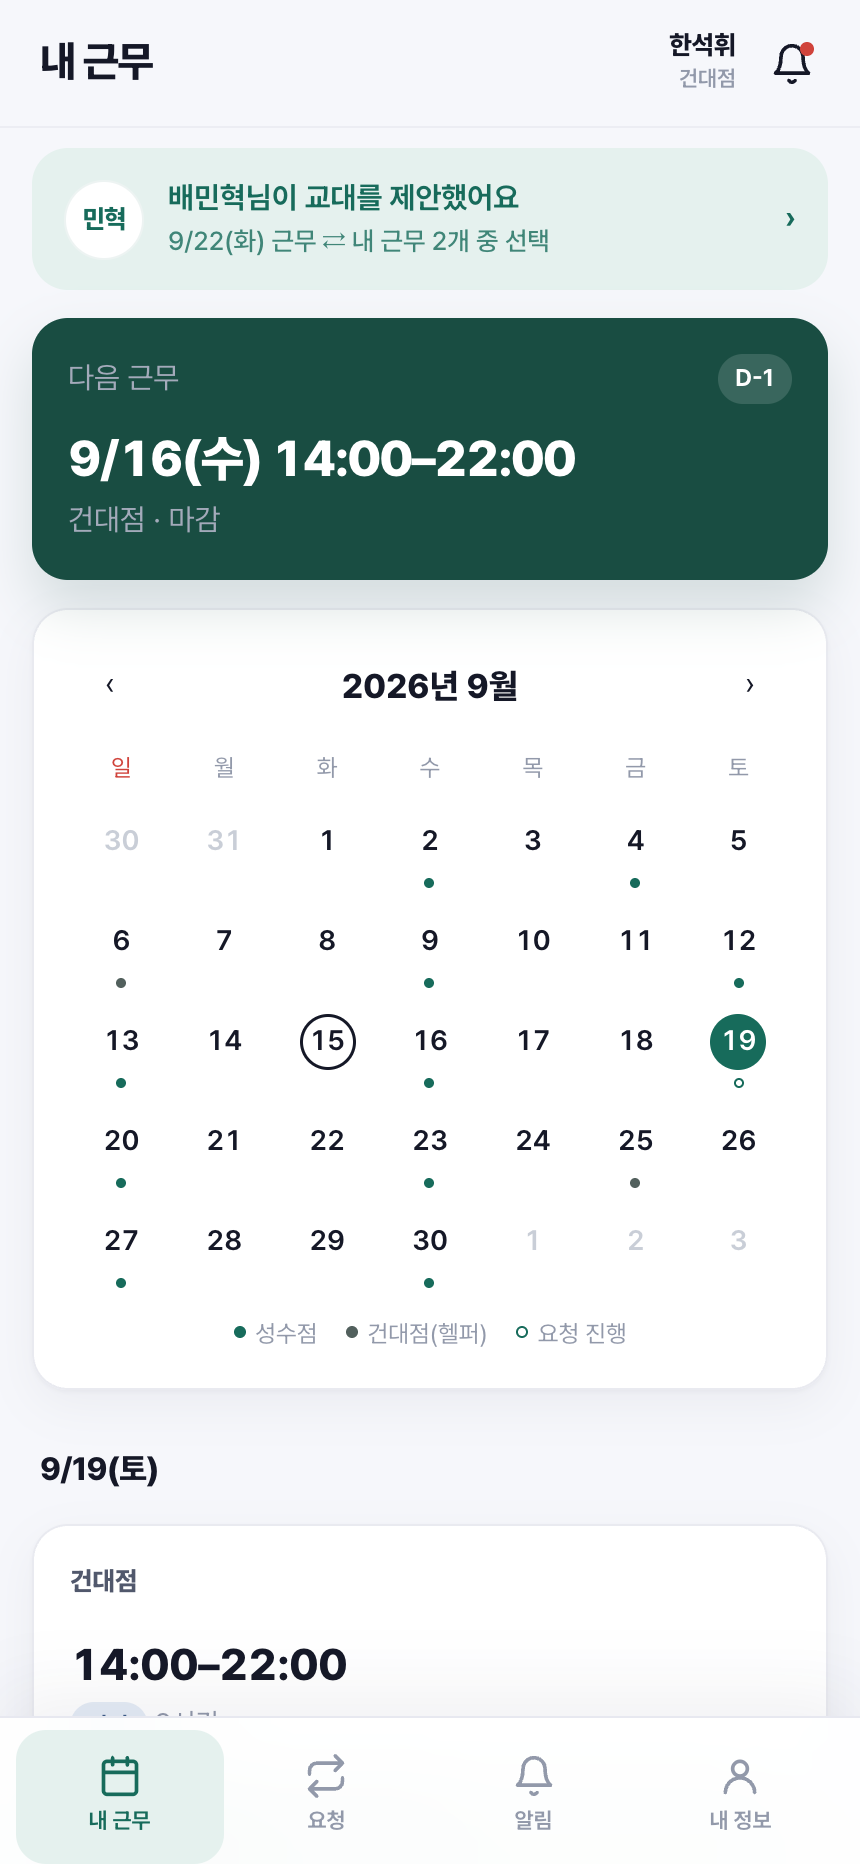
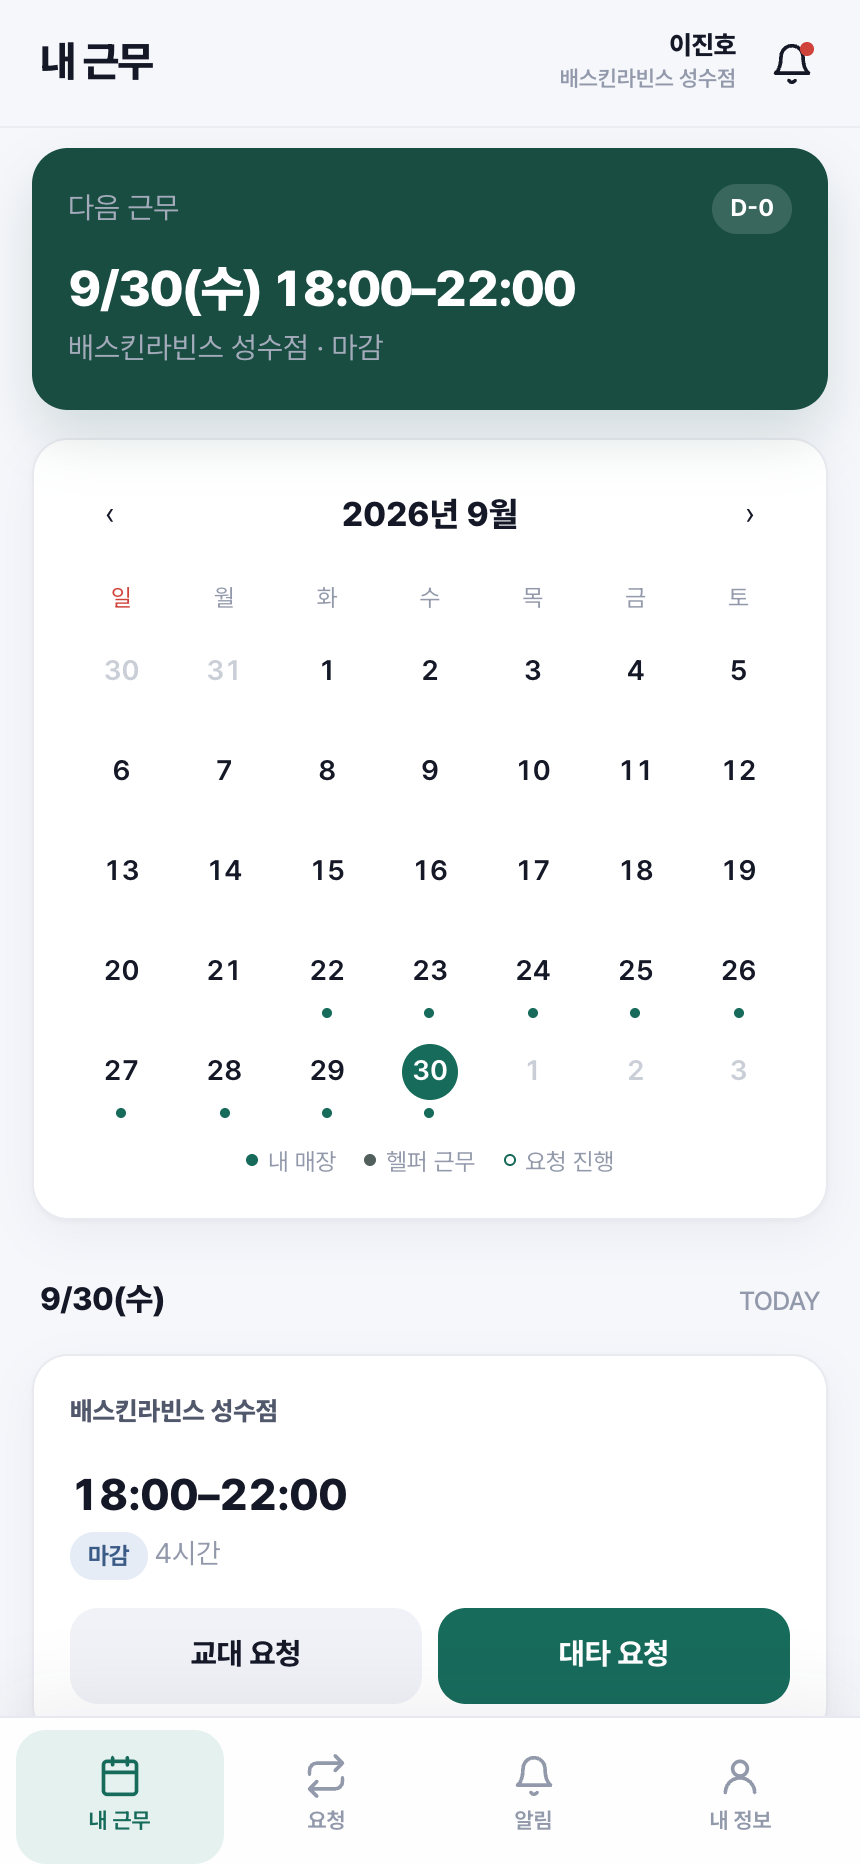
fix: improve live demo startup

diff --git a/web/login.html b/web/login.html
@@ -35,6 +35,7 @@
         </div>
         <p class="error-text" id="loginError" hidden></p>
         <p class="help" id="coldStartHint" hidden>무료 데모 서버를 깨우는 중이에요. 첫 로그인은 1분 이상 걸릴 수 있어요.</p>
+        <p class="help" id="serverStatus" role="status">데모 서버 상태를 확인하는 중이에요…</p>
         <button class="btn btn-primary btn-block" type="submit">로그인</button>
         <span class="api-tag">POST /auth/login</span>
       </form>
@@ -87,6 +88,20 @@
       element.textContent = message;
       element.hidden = false;
     };
+
+    const serverStatus = document.getElementById("serverStatus");
+    if (DaetaguhamApi.baseUrl.includes("onrender.com")) {
+      DaetaguhamApi.warmUp()
+        .then(() => {
+          serverStatus.textContent = "데모 서버 준비 완료";
+          serverStatus.style.color = "var(--accent)";
+        })
+        .catch(() => {
+          serverStatus.textContent = "로그인하면 서버 연결을 다시 시도할게요.";
+        });
+    } else {
+      serverStatus.hidden = true;
+    }
 
     const setBusy = (button, busy, busyLabel) => {
       if (!button.dataset.label) button.dataset.label = button.textContent;

diff --git a/web/js/common.js b/web/js/common.js
@@ -49,7 +49,7 @@
   const DEPLOYED_API_BASE = "https://daetaguham-api-oojoyhh.onrender.com/api";
   const AUTH_KEY = "daetaguham-auth-v1";
   // Render 무료 인스턴스는 첫 요청 시 1분 이상 기동할 수 있어요.
-  const AUTH_COLD_START_TIMEOUT = 90000;
+  const AUTH_COLD_START_TIMEOUT = 180000;
 
   class ApiError extends Error {
     constructor(message, options = {}) {
@@ -173,6 +173,13 @@
         body: { name, phone, password },
       });
       return this.login(phone, password);
+    },
+
+    async warmUp() {
+      return this.request("/actuator/health", {
+        auth: false,
+        timeout: AUTH_COLD_START_TIMEOUT,
+      });
     },
 
     async refreshSession() {

diff --git a/README.md b/README.md
@@ -28,9 +28,14 @@
 
 ## 주요 화면
 
+<p align="center">
+  <img src="docs/screenshots/owner-overview.png" alt="실제 배포 데이터로 조회한 사장 매장 현황" width="360">
+</p>
+<p align="center"><b>사장 매장 현황 · 실제 배포 데이터</b></p>
+
 <table>
   <tr>
-    <td align="center"><b>내 근무와 요청 진입</b></td>
+    <td align="center"><b>내 근무 · 실제 배포 데이터</b></td>
     <td align="center"><b>교대 가능 날짜 복수 선택</b></td>
   </tr>
   <tr>
@@ -152,7 +157,7 @@ GitHub에 푸시하거나 Pull Request를 열면 같은 테스트가 GitHub Acti
 배포 환경은 첫 시작 시 성수점 근무표·전달사항·대타/교대/급구 요청이 담긴 데모 데이터를 한 번만 생성합니다.
 모든 계정의 비밀번호는 `demo1234!`입니다.
 
-> Render 무료 인스턴스가 잠들어 있으면 첫 로그인에 1분 이상 걸릴 수 있습니다. 화면에서 서버 기동 상태를 안내하고 인증 요청은 기동이 끝날 때까지 최대 90초 대기합니다.
+> Render 무료 인스턴스가 잠들어 있으면 첫 로그인에 1분 이상 걸릴 수 있습니다. 로그인 화면을 열면 서버 기동을 미리 시작하고, 인증 요청은 기동이 끝날 때까지 최대 3분 대기합니다.
 
 | 역할 | 이름 | 휴대폰 번호 |
 | --- | --- | --- |
